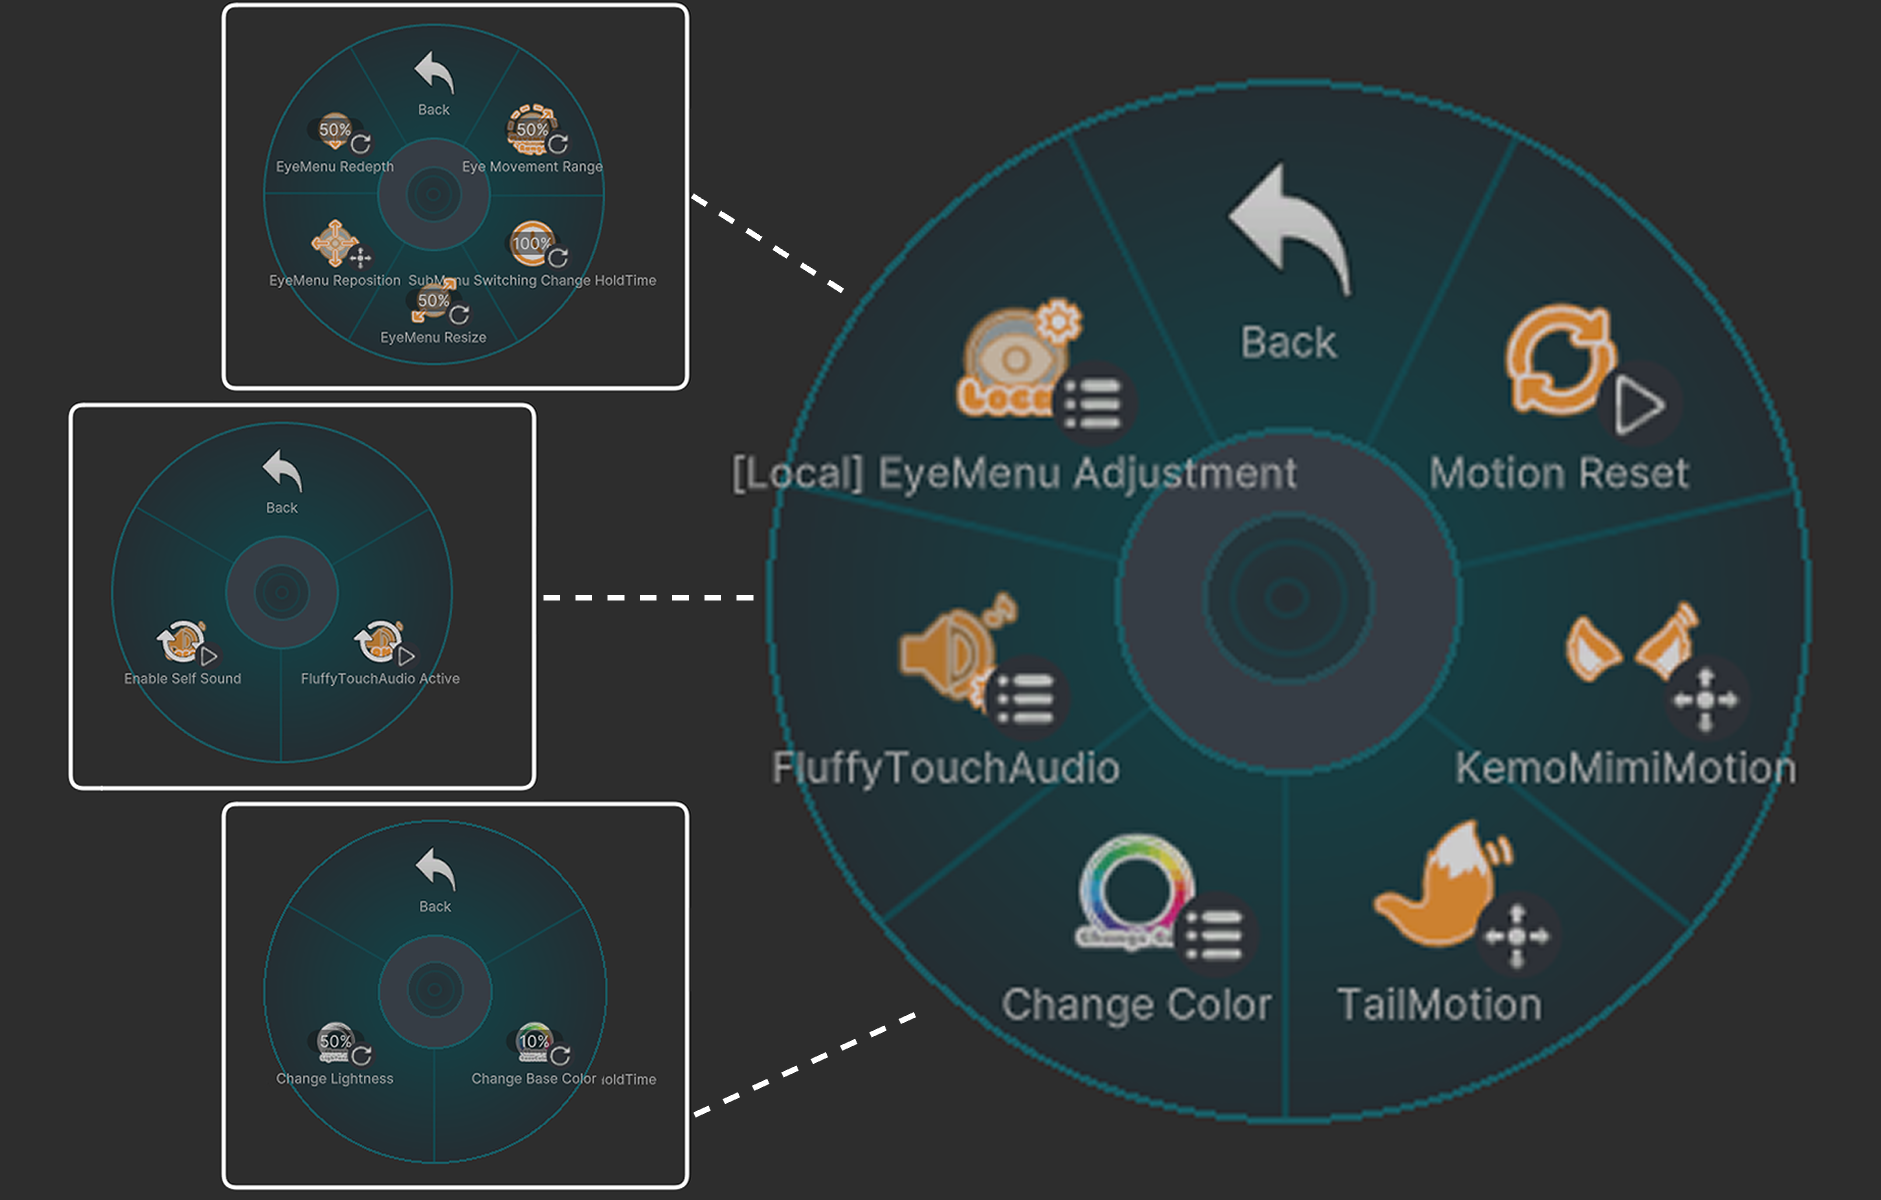
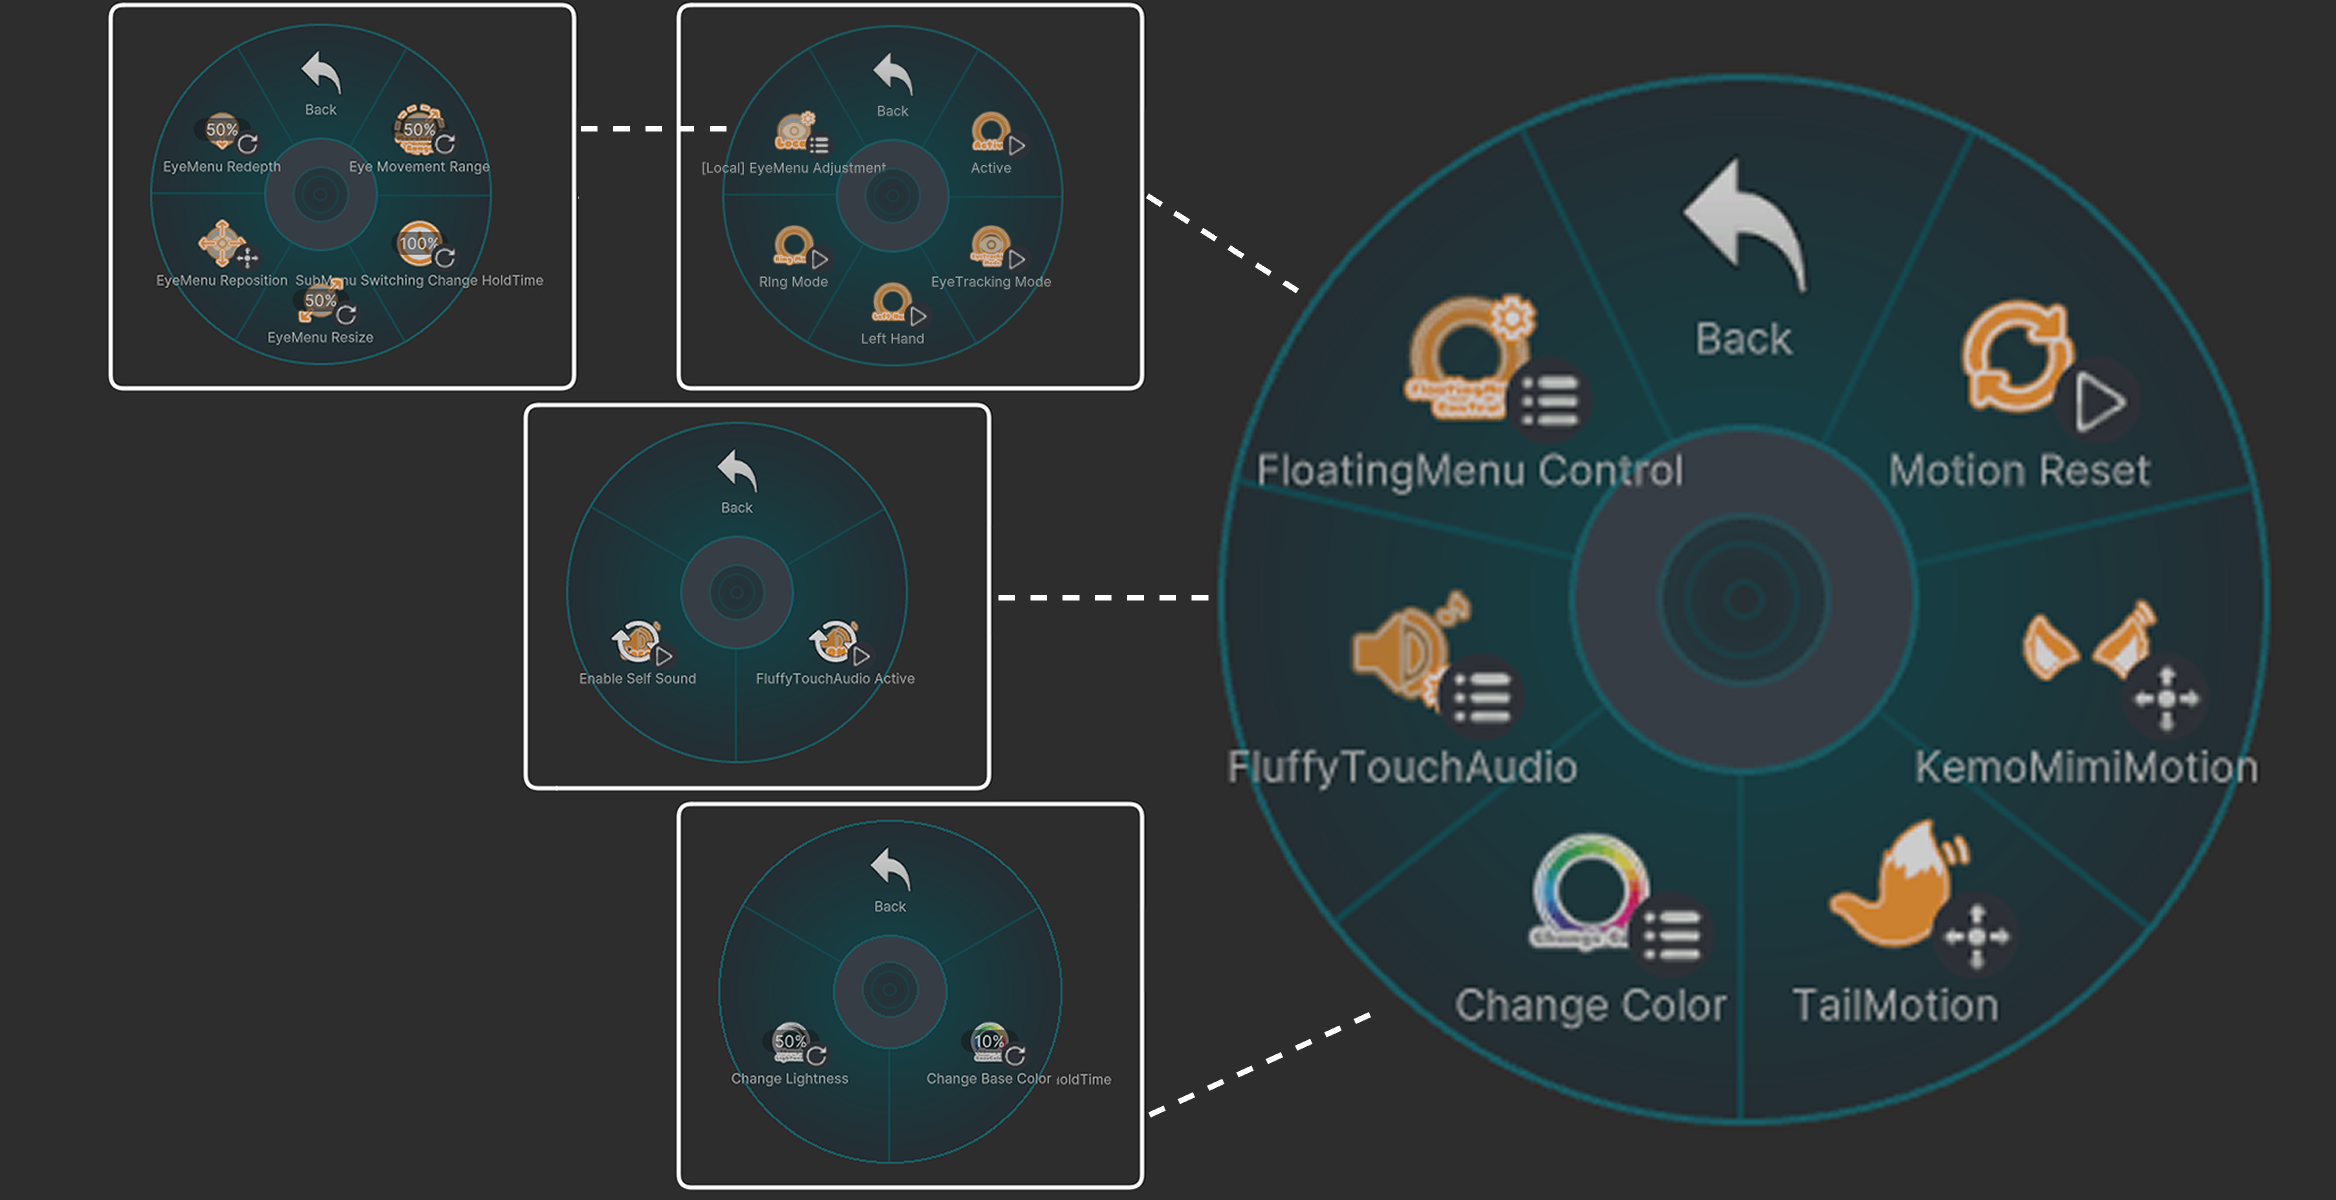
[add]update

diff --git a/docs/HowTo/HowTo.md b/docs/HowTo/HowTo.md
@@ -189,29 +189,39 @@ FM：FloatingMenu
     - **[Change Lightness]**  
         明度を変更します。
 - **[FluffyTouchAudio]**  
-もふもふ音の設定です。
+    もふもふ音の設定です。
     - **[FluffyTouchAudio Active]**  
         耳や尻尾で触った際の音を有効化します。  
         この音声はParticle同様、操作中の部位が何かに触れている際のみ有効になります。
     - **[Enable Self Sound]**  
         自身でも音を聞こえるようにするかの設定です。
-- **[[Local] EyeMenu Adjustment]**  
-    ※Localでのみアイトラモード時の見え方を変更する設定項目です。
-     - **[Eye Movement Range]**  
-        アイトラの可動域の調整を行います。  
-        可動域を調整する際は専用オーバーレイが表示されます。  
-        アイトラのParameterに合わせて、外円が1.0/内側が0.7のラインを表しています。  
-        サブメニューアイコンにPointerを合わせられるように可動域を調整してください。  
-        **※Remoteには設定した倍率のみが同期されます。**
-    - **[SubMenu Switching Change HoldTime]**  
-        アイトラ使用時のモード切替時に何秒選択し続けたら切り替わるかの時間設定です。  
-        0%で1F、100%で1秒で切り替わります。
-    - **[EyeMenu Resize]**  
-        アイトラモード時のFloatingMenuのサイズを変更します。
-    - **[EyeMenu Reposition]**  
-        アイトラモード時のFloatingMenuの表示位置を変更します。
-    - **[EyeMenu Redepth]**  
-        アイトラモード時のFloatingMenuの奥行きを変更します。
+- **[FloatingMenu Control]**  
+    FloatingMenu周りの設定を行います。  
+    - **[Active]**  
+        MMMを有効化します。  
+    - **[EyeTracking Mode]**  
+        アイトラッキングモードに変更します。  
+    - **[Left Hand]**  
+        バングル/リングモード時、左手に変更します。  
+    - **[Ring Mode]**  
+        リングモードに変更します。  
+    - **[[Local] EyeMenu Adjustment]**  
+        ※Localでのみアイトラモード時の見え方を変更する設定項目です。
+        - **[Eye Movement Range]**  
+            アイトラの可動域の調整を行います。  
+            可動域を調整する際は専用オーバーレイが表示されます。  
+            アイトラのParameterに合わせて、外円が1.0/内側が0.7のラインを表しています。  
+            サブメニューアイコンにPointerを合わせられるように可動域を調整してください。  
+            **※Remoteには設定した倍率のみが同期されます。**
+        - **[SubMenu Switching Change HoldTime]**  
+            アイトラ使用時のモード切替時に何秒選択し続けたら切り替わるかの時間設定です。  
+            0%で1F、100%で1秒で切り替わります。
+        - **[EyeMenu Resize]**  
+            アイトラモード時のFloatingMenuのサイズを変更します。
+        - **[EyeMenu Reposition]**  
+            アイトラモード時のFloatingMenuの表示位置を変更します。
+        - **[EyeMenu Redepth]**  
+            アイトラモード時のFloatingMenuの奥行きを変更します。
 :::tip
 **【アイトラ可動域の調整について】**  
 アイトラモードでメニュー展開後、ActionMenuから[Eye Movement Range]を選択し  

diff --git a/docs/ChangeLog.md b/docs/ChangeLog.md
@@ -21,8 +21,48 @@ sidebar_position: 4
 本バージョンはクリーンインストール推奨です。
 :::  
 </details>
+
+### [v1.2.0] '25.4.7  
+    <details>
+        <summary>**カスタムMMM製作者の方へ(改変を残したままアップデートする方法)**</summary>
+            :::danger
+                **backupを取ってからお試しください。**  
+            :::
+            ① project内のMofuMofuMotion内の以下のフォルダのみを残し、それ以外のフォルダを削除してください。
+            ```
+            MofuMofuMotion
+            　┗Prefab
+            　　┗__MMM_Base
+                ┗__MMM_Custom (カスタマイズしたフォルダ)
+            　┗System
+            　　┗AvatarAnimation
+            　　　┗__MMM_Custom (カスタマイズしたフォルダ)
+            ```
+            ② v1.2.0をインストールしてください。
+
+            ③ 「03_MMM_EyeModeOnly_2bit_Custom」のMA Menu Installerの「prefab開発者向け設定」からインストールされるEXメニューを「03_MMM_EXMenu」に変更してください。
+    </details>
+    - **【対応アバター追加】**
+        - [萌](https://booth.pm/ja/items/4667400)  
+        - [ビスキュイ・ラングドシャ](https://booth.pm/ja/items/5377257)  
+        - [カルキア](https://booth.pm/ja/items/2930485)  
+    - **【仕様変更】**
+        - ActionMenuにFloatingMenuの有効化や場所の設定を行う、 **「FloatingMenu control」** を追加しました。  
+            この修正に伴い、**既存ActionMenuの構成/名称を一部変更しました。**  
+    - **【その他更新】**  
+        - v1.1.1に含まれていた不要なデータを削除しました。   
+            <details>
+            <summary>**v1.1.1をインストールされた方へ**</summary>
+                
+            　　お手数ですが、Assets内に「アバター」という見覚えのないフォルダがありましたら削除して頂けますと助かります。  
+            　　(個人的な改変で使用しているExParameter等が同梱されていました。)  
+            </details>
+    :::caution 
+    ファイル名の変更等破壊的変更を伴う更新です。  
+    **本バージョンは必ずクリーンインストールしてください。**
+    :::  
 ### [v1.1.1] '25.4.5   
-    - 【対応アバター追加】  
+    - **【対応アバター追加】**  
         - [ミルク Re](https://komado.booth.pm/items/2953391)
 ### [v1.1.0] '25.4.4   
     - **【Prefab追加】**
@@ -64,7 +104,7 @@ sidebar_position: 4
 - **【その他更新】**
     - 【Assetフォルダ構成を変更】
         - アバター個別対応関連のフォルダを一部「ショップ名→アバター名」というように纏めました。
-:::caution 
-大幅な破壊的変更を伴う更新です。  
-**本バージョンは必ずクリーンインストールしてください。**
-:::  
+    :::caution 
+    大幅な破壊的変更を伴う更新です。  
+    **本バージョンは必ずクリーンインストールしてください。**
+    :::  
